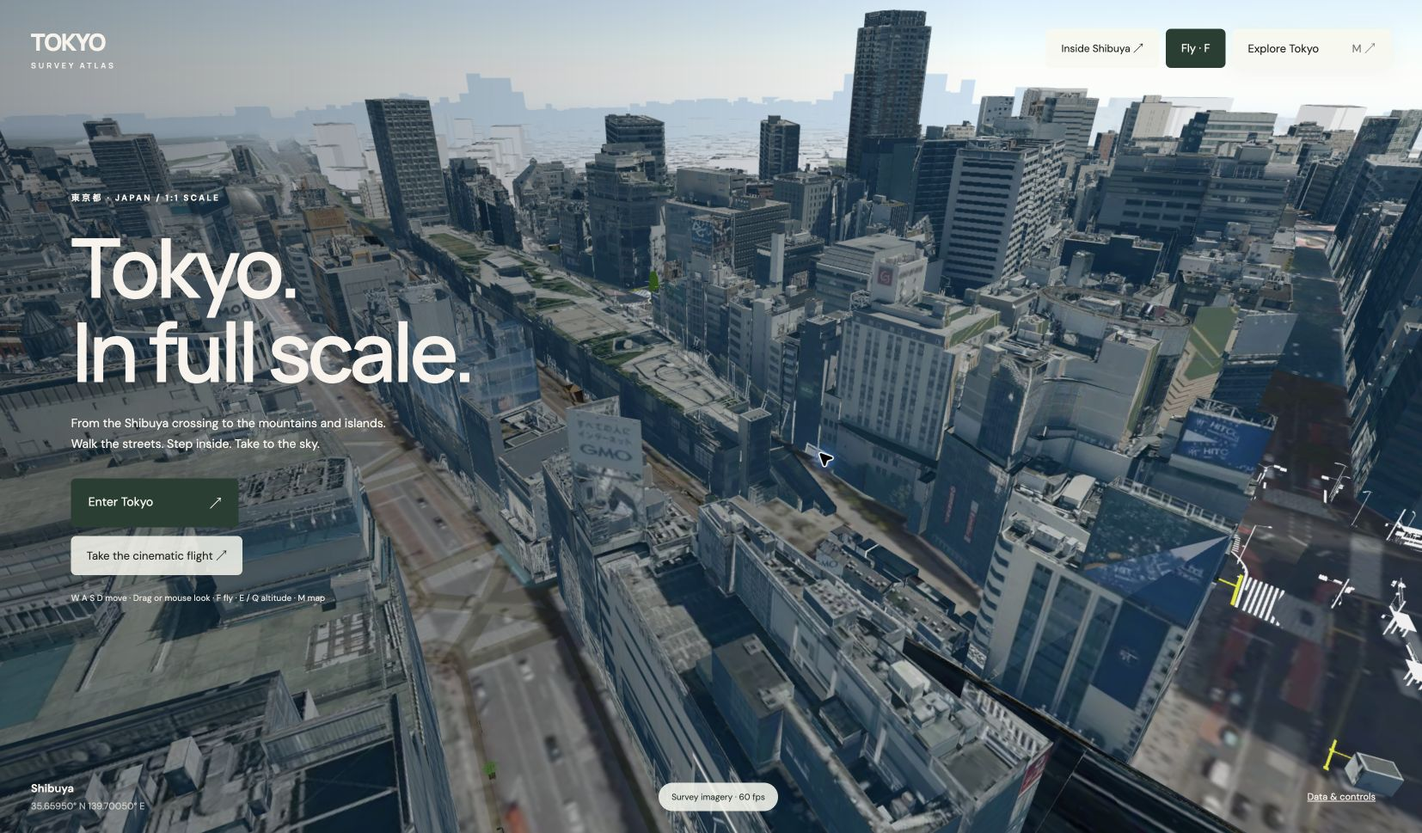
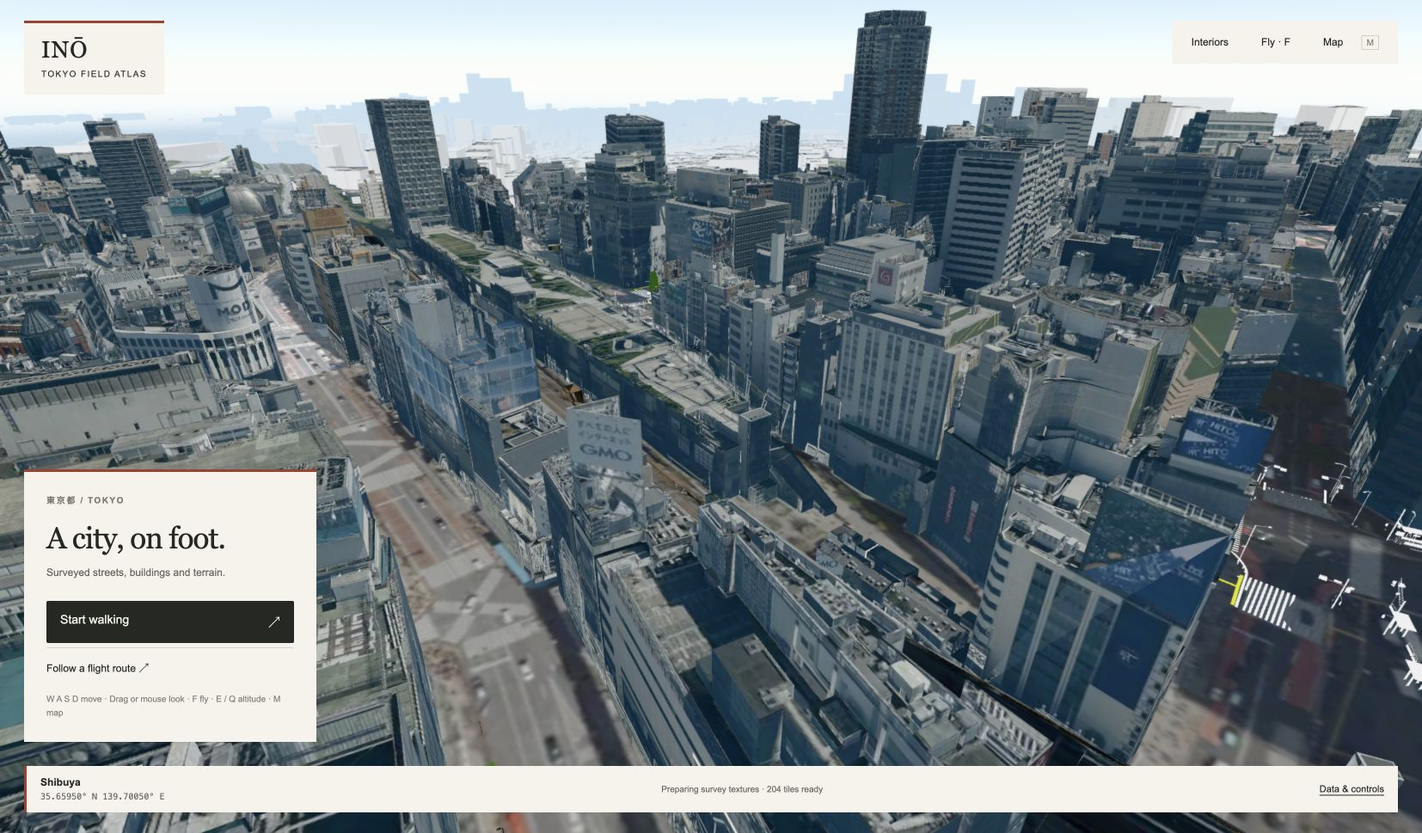
Refine Tokyo exploration with Ino survey interface

diff --git a/index.html b/index.html
@@ -1,1 +1,1 @@
-<!doctype html><html lang="en"><head><meta charset="UTF-8"><meta name="viewport" content="width=device-width,initial-scale=1"><title>Tokyo · Survey Atlas</title></head><body><canvas id="world"></canvas><header><div class="brand">TOKYO <span>SURVEY ATLAS</span></div><nav><button id="spaces-button">Inside Shibuya ↗</button><button id="fly-mode">Fly · F</button><button id="map-button">Explore Tokyo <span>M ↗</span></button></nav></header><button id="stop-flight">Exit flight · Esc</button><div id="crosshair">+</div><aside id="intro"><div class="eyebrow">東京都 · JAPAN / 1:1 SCALE</div><h1>Tokyo.<br>In full scale.</h1><p>From the Shibuya crossing to the mountains and islands.<br>Walk the streets. Step inside. Take to the sky.</p><button id="enter">Enter Tokyo <span>↗</span></button><button id="flight">Take the cinematic flight ↗</button><div class="help">W A S D move · Drag or mouse look · F fly · E / Q altitude · M map</div></aside><footer><div><strong id="place">Shibuya</strong><span id="coordinates"></span></div><div id="status">Connecting to Tokyo’s geographic data…</div><button id="about-button">Data & controls</button></footer><div id="notice" role="status"></div><button id="enter-space" hidden></button><div id="neighborhood-navigation" hidden><span id="navigation-arrow">↑</span><span id="navigation-text"></span><button id="cancel-navigation" aria-label="Cancel route">×</button></div><dialog id="spaces-dialog"><div class="dialog-head"><div><div class="eyebrow">A CLOSER LOOK</div><h2>Inside Shibuya</h2></div><button id="close-spaces" aria-label="Close Shibuya interiors">×</button></div><p class="spaces-intro">Walk to an entrance, then press E to step inside.</p><div id="spaces">Loading Shibuya entrances…</div><p class="small">The furnished café, shop and apartment have modeled layouts. Shibuya Station uses the published interior survey.</p></dialog><dialog id="map-dialog"><div class="dialog-head"><div><div class="eyebrow">GO ANYWHERE</div><h2>Tokyo Metropolis</h2></div><button id="close-map" aria-label="Close map">×</button></div><div id="map-canvas" aria-label="Interactive destination map"><div id="map-tiles"></div><div id="map-zoom"><button id="zoom-in">+</button><button id="zoom-out">−</button></div><div class="map-hint">Drag to pan · Click to travel · Scroll to zoom</div></div><div id="places"></div><form id="coordinate-form"><label>Go to coordinates</label><input id="lat" aria-label="Latitude" type="number" step="any" value="35.6595" required><input id="lon" aria-label="Longitude" type="number" step="any" value="139.7005" required><button>Go ↗</button></form><p class="small">Map © Geospatial Information Authority of Japan. Building coverage follows the published PLATEAU datasets.</p></dialog><dialog id="about-dialog"><div class="dialog-head"><h2>Real geography.<br>Surveyed surfaces.</h2><button id="close-about">×</button></div><p>One scene unit is one metre. Buildings retain the original angled surfaces and photographic mapping from Japan’s official PLATEAU survey models. Original survey photographs cover available façades and roofs. Terrain uses GSI elevation and aerial imagery, with native 20 cm Tokyo orthophotography in available Tama and Izu areas. Unphotographed surfaces keep their source colours; image resolution and survey dates vary.</p><p>All 62 Tokyo municipality datasets are connected. Nearby data streams as you walk. The local site requires internet for government source data.</p><p>Roads and bridges retain continuous survey surfaces. Smooth terrain uses approximately 2 m samples nearby, with coarser distant detail and shared edges. Survey dates and model detail vary. Roofs and footprints follow the source models; small features and dynamic street life are outside this dataset. Selected Shibuya interiors and street details are modeled in Blender. Authored interiors are identified in their room information. Physical bridge and elevated-road coverage is less complete than building coverage.</p><p>WASD / arrows: walk · Mouse or drag: look · Shift: run · Space: jump · E: enter nearby buildings · F: fly / walk · E / Q: ascend / descend in flight · M: map · Esc: release mouse</p><p><a href="https://docs.plateauview.mlit.go.jp/datasets/3d-tiles/" target="_blank" rel="noreferrer">PLATEAU data and licence ↗</a><br><a href="https://maps.gsi.go.jp/development/ichiran.html" target="_blank" rel="noreferrer">GSI terrain and photography ↗</a><br><a href="https://catalog.data.metro.tokyo.lg.jp/dataset/t000029d0000000020" target="_blank" rel="noreferrer">Tokyo Digital Twin orthophotography · CC BY 4.0 ↗</a><br>東京都デジタルツイン実現プロジェクトのオルソ画像を加工して作成</p></dialog><script type="module" src="/src/main.ts"></script></body></html>
+<!doctype html><html lang="en"><head><meta charset="UTF-8"><meta name="viewport" content="width=device-width,initial-scale=1"><title>Inō · Tokyo</title></head><body><canvas id="world"></canvas><header><div class="brand">INŌ <span>TOKYO FIELD ATLAS</span></div><nav><button id="spaces-button">Interiors</button><button id="fly-mode">Fly · F</button><button id="map-button">Map <span>M</span></button></nav></header><button id="stop-flight">Exit flight · Esc</button><div id="crosshair">+</div><aside id="intro"><div class="eyebrow">東京都 / TOKYO</div><h1>A city, on foot.</h1><p>Surveyed streets, buildings and terrain.</p><button id="enter">Start walking <span>↗</span></button><button id="flight">Follow a flight route ↗</button><div class="help">W A S D move · Drag or mouse look · F fly · E / Q altitude · M map</div></aside><footer><div><strong id="place">Shibuya</strong><span id="coordinates"></span></div><div id="status">Connecting to Tokyo’s geographic data…</div><button id="about-button">Data & controls</button></footer><div id="notice" role="status"></div><button id="enter-space" hidden></button><div id="neighborhood-navigation" hidden><span id="navigation-arrow">↑</span><span id="navigation-text"></span><button id="cancel-navigation" aria-label="Cancel route">×</button></div><dialog id="spaces-dialog"><div class="dialog-head"><div><div class="eyebrow">SHIBUYA</div><h2>Inside Shibuya</h2></div><button id="close-spaces" aria-label="Close Shibuya interiors">×</button></div><p class="spaces-intro">Walk to an entrance, then press E to step inside.</p><div id="spaces">Loading Shibuya entrances…</div><p class="small">The furnished café, shop and apartment have modeled layouts. Shibuya Station uses the published interior survey.</p></dialog><dialog id="map-dialog"><div class="dialog-head"><div><div class="eyebrow">DESTINATIONS</div><h2>Tokyo Metropolis</h2></div><button id="close-map" aria-label="Close map">×</button></div><div id="map-canvas" aria-label="Interactive destination map"><div id="map-tiles"></div><div id="map-zoom"><button id="zoom-in">+</button><button id="zoom-out">−</button></div><div class="map-hint">Drag to pan · Click to travel · Scroll to zoom</div></div><div id="places"></div><form id="coordinate-form"><label>Go to coordinates</label><input id="lat" aria-label="Latitude" type="number" step="any" value="35.6595" required><input id="lon" aria-label="Longitude" type="number" step="any" value="139.7005" required><button>Go ↗</button></form><p class="small">Map © Geospatial Information Authority of Japan. Building coverage follows the published PLATEAU datasets.</p></dialog><dialog id="about-dialog"><div class="dialog-head"><h2>Sources & controls</h2><button id="close-about">×</button></div><p>One scene unit is one metre. Buildings retain the original angled surfaces and photographic mapping from Japan’s official PLATEAU survey models. Original survey photographs cover available façades and roofs. Terrain uses GSI elevation and aerial imagery, with native 20 cm Tokyo orthophotography in available Tama and Izu areas. Unphotographed surfaces keep their source colours; image resolution and survey dates vary.</p><p>All 62 Tokyo municipality datasets are connected. Nearby data streams as you walk. The local site requires internet for government source data.</p><p>Roads and bridges retain continuous survey surfaces. Smooth terrain uses approximately 2 m samples nearby, with coarser distant detail and shared edges. Survey dates and model detail vary. Roofs and footprints follow the source models; small features and dynamic street life are outside this dataset. Selected Shibuya interiors and street details are modeled in Blender. Authored interiors are identified in their room information. Physical bridge and elevated-road coverage is less complete than building coverage.</p><p>WASD / arrows: walk · Mouse or drag: look · Shift: run · Space: jump · E: enter nearby buildings · F: fly / walk · E / Q: ascend / descend in flight · M: map · Esc: release mouse</p><p><a href="https://docs.plateauview.mlit.go.jp/datasets/3d-tiles/" target="_blank" rel="noreferrer">PLATEAU data and licence ↗</a><br><a href="https://maps.gsi.go.jp/development/ichiran.html" target="_blank" rel="noreferrer">GSI terrain and photography ↗</a><br><a href="https://catalog.data.metro.tokyo.lg.jp/dataset/t000029d0000000020" target="_blank" rel="noreferrer">Tokyo Digital Twin orthophotography · CC BY 4.0 ↗</a><br>東京都デジタルツイン実現プロジェクトのオルソ画像を加工して作成</p></dialog><script type="module" src="/src/main.ts"></script></body></html>

diff --git a/underground.html b/underground.html
@@ -1,10 +1,12 @@
 <!doctype html>
-<html lang="en"><head><meta charset="UTF-8"><meta name="viewport" content="width=device-width,initial-scale=1"><meta name="theme-color" content="#101619"><title>Shibuya Underground · Tokyo Survey Atlas</title>
+<html lang="en"><head><meta charset="UTF-8"><meta name="viewport" content="width=device-width,initial-scale=1"><meta name="theme-color" content="#101619"><title>Shibuya Underground · Inō</title>
 <style>
   :root{font-family:Inter,-apple-system,BlinkMacSystemFont,"Segoe UI",sans-serif;color:#f4f5ee;font-synthesis:none}*{box-sizing:border-box}body{margin:0;overflow:hidden;background:#111819}button,select,a{font:inherit}button,select{cursor:pointer;color:inherit;border:1px solid #ffffff29;background:#142326e8;border-radius:8px;padding:11px 15px;font-size:12px}button:hover,select:hover{background:#29403e}button:focus-visible,select:focus-visible,a:focus-visible{outline:2px solid #c4e6bd;outline-offset:4px}a{color:inherit;text-decoration:none}canvas{display:block;width:100vw;height:100vh;touch-action:none}header{position:fixed;top:25px;left:30px;right:30px;display:flex;align-items:center;justify-content:space-between;gap:20px;pointer-events:none}header>*{pointer-events:auto}.brand{font-size:17px;font-weight:650;letter-spacing:-.4px;text-shadow:0 1px 12px #000}.brand small{display:block;font-size:9px;font-weight:500;letter-spacing:2px;text-transform:uppercase;margin-top:7px;opacity:.7}nav{display:flex;align-items:center;gap:8px}.back{font-size:12px;margin-right:16px;text-shadow:0 1px 9px #000}#mode{background:#d9ebc7;color:#182723;border-color:transparent;min-width:85px}#help{position:fixed;bottom:27px;left:30px;font-size:11px;line-height:1.8;text-shadow:0 1px 8px #000}#help strong{display:block;font-size:14px;font-weight:550}#status{position:fixed;right:30px;bottom:30px;font-size:11px;background:#142326df;padding:10px 14px;border:1px solid #ffffff1a;border-radius:30px;font-variant-numeric:tabular-nums}#crosshair{position:fixed;left:50%;top:50%;width:4px;height:4px;border-radius:50%;background:#fff9;pointer-events:none}#loading{position:fixed;top:50%;left:50%;transform:translate(-50%,-50%);background:#142326ee;border:1px solid #ffffff21;border-radius:12px;padding:22px 28px;max-width:90vw;text-align:center;font-size:13px;line-height:1.7}#loading small{display:block;font-size:11px;opacity:.65;margin-top:6px}dialog{width:min(500px,90vw);border:1px solid #536763;border-radius:16px;padding:28px;background:#182725;color:#f4f5ee;box-shadow:0 30px 100px #0008}dialog::backdrop{background:#09131399;backdrop-filter:blur(5px)}dialog h2{font-size:24px;letter-spacing:-.7px;font-weight:550;margin:0 0 22px}dialog p{font-size:13px;line-height:1.75;opacity:.85}dialog a{text-decoration:underline;text-underline-offset:3px}dialog button{float:right}#source-credit{font-size:11px;opacity:.7}#error{color:#ffd3b6}select option{background:#182725;color:white}@media(max-width:680px){header{top:18px;left:18px;right:18px;align-items:start;gap:12px}.brand{font-size:14px}.brand small{letter-spacing:1px;font-size:8px}nav{flex-wrap:wrap;justify-content:flex-end;gap:6px;max-width:230px}button,select{padding:9px 10px;font-size:11px}.back{margin-right:0;width:100%;text-align:right;font-size:11px}#help{left:18px;bottom:67px;font-size:10px}#status{right:18px;bottom:20px}#help strong{font-size:12px}}
+
+:root{font-family:Arial,Helvetica,sans-serif}button,select,dialog,#loading,#status{border-radius:2px}button,select{background:#f5f3eb;color:#262824;border:0}button:hover,select:hover{background:#e6e1d2}.brand{font:500 25px Georgia,serif;letter-spacing:1px;background:#f5f3eb;color:#262824;padding:15px 18px;border-top:3px solid #a43d2d;text-shadow:none}.brand small{font:9px Arial,sans-serif;letter-spacing:1px}nav{background:#f5f3eb;padding:4px;gap:3px;color:#262824}.back{text-shadow:none;margin:0;padding:12px}#mode{background:#e8e5da;color:#262824}#help{background:#f5f3eb;color:#262824;border-left:3px solid #a43d2d;padding:10px 14px;text-shadow:none}#status{background:#f5f3eb;color:#262824;border:0}dialog{background:#f5f3eb;color:#262824;border:0;border-top:3px solid #a43d2d}dialog h2{font:29px Georgia,serif}button:focus-visible,select:focus-visible,a:focus-visible{outline-color:#a43d2d}@media(max-width:680px){.brand{font-size:19px;padding:10px}nav{max-width:230px}.back{padding:5px 10px}#help{max-width:calc(100vw - 36px)}}
 </style></head>
 <body><canvas id="scan" aria-label="Walkable measured Shibuya underground scan"></canvas>
-<header><a class="brand" href="/">TOKYO<small id="dataset-title">Shibuya Underground</small></a><nav><a class="back" href="/?lat=35.659500&lon=139.700500">↖ Back to the city</a><select id="dataset" aria-label="Measured interior"><option value="shibuya">Shibuya Underground</option><option value="takeshiba">Takeshiba interiors</option><option value="tokyo-station">Tokyo Station interiors</option></select><select id="floor" aria-label="Interior floor"><option>Loading floors…</option></select><button id="mode">Fly · F</button><button id="about">About</button></nav></header>
+<header><a class="brand" href="/">INŌ<small id="dataset-title">Shibuya Underground</small></a><nav><a class="back" href="/?lat=35.659500&lon=139.700500">↖ Street</a><select id="dataset" aria-label="Measured interior"><option value="shibuya">Shibuya Underground</option><option value="takeshiba">Takeshiba interiors</option><option value="tokyo-station">Tokyo Station interiors</option></select><select id="floor" aria-label="Interior floor"><option>Loading floors…</option></select><button id="mode">Fly · F</button><button id="about">About</button></nav></header>
 <div id="crosshair"></div><div id="loading">Opening the measured station<small>Preparing original colour and 3D surfaces</small></div>
 <div id="help"><strong id="place">Shibuya Underground</strong><span id="controls">Drag to look · WASD walk · Shift faster · F fly</span><div id="source-credit">2017 laser survey · Original captured colour</div></div><div id="status" role="status">Loading scan…</div>
 <dialog id="about-dialog"><button id="close-about" aria-label="Close information">Close</button><h2 id="about-title">Inside Shibuya</h2><p id="description">The station is reconstructed from 28.6 million measured colour laser points. Every published point and its original RGB colour are preserved. Walking support and wall contact come from the same measured geometry.</p><p id="credit">March 2017 survey by <a id="source-link" href="https://3dcel.com/study/case03/" target="_blank" rel="noreferrer">3D City Experience Lab.</a>, published under <a href="https://creativecommons.org/licenses/by/4.0/" target="_blank" rel="noreferrer">CC BY 4.0</a>.</p><p id="capture-note">The scan records the station as captured in 2017. Floor viewpoints follow measured clear areas. Uncaptured areas remain outside the survey.</p><p id="error"></p></dialog>

diff --git a/src/style.css b/src/style.css
@@ -11,3 +11,7 @@ header nav{display:flex;gap:8px}#fly-mode{font-size:13px;background:#253e33;colo
 #underground-link{color:inherit;text-decoration:none;font-size:12px;background:#ffffffdb;padding:14px 18px;border-radius:7px;white-space:nowrap}#underground-link:hover{background:#fff}
 
 [hidden]{display:none!important}#spaces-button{font-size:12px;background:#f7f8eeee}#spaces{display:grid;grid-template-columns:1fr 1fr;gap:12px;margin:24px 0}.space-card{padding:22px;background:#e4e8da;text-align:left;min-height:132px;border:1px solid #cfd8c4}.space-card strong{font:600 18px Manrope,sans-serif;display:block;margin-bottom:12px;letter-spacing:-.4px}.space-card span{display:block;font-size:11px;opacity:.65}.space-card small{display:block;margin-top:21px;font-size:11px}.spaces-intro{font-size:13px;line-height:1.6}#spaces-dialog{max-width:650px}#enter-space{position:fixed;z-index:4;left:50%;bottom:105px;transform:translateX(-50%);background:#f7f8eef2;color:#253e33;box-shadow:0 4px 26px #122d3626;min-width:220px}#neighborhood-navigation{position:fixed;z-index:3;left:50%;top:105px;transform:translateX(-50%);display:flex;align-items:center;gap:13px;background:#253e33e8;color:#faf8ef;padding:4px 9px 4px 17px;border-radius:25px;font-size:11px}#navigation-arrow{display:inline-block;font-size:23px;line-height:1}#cancel-navigation{background:transparent;color:inherit;font-size:18px;padding:5px 7px}body.cinema #enter-space,body.cinema #neighborhood-navigation{display:none!important}@media(max-width:600px){#spaces{gap:8px}.space-card{padding:17px 13px}.space-card strong{font-size:16px}#spaces-button{font-size:11px;padding:12px}#neighborhood-navigation{top:90px;white-space:nowrap}}
+
+/* Survey sheet: paper, ruled edges, geographic information before branding. */
+:root{font-family:Arial,Helvetica,sans-serif;color:#262824;--paper:#f5f3eb;--ink:#262824;--accent:#a43d2d}
+button,input,dialog{border-radius:2px}button{transition:background .15s,color .15s;min-height:42px}button:focus-visible,a:focus-visible,input:focus-visible{outline:2px solid var(--accent);outline-offset:4px}button:hover{background:#e6e1d2}header{top:24px;left:28px;right:28px;align-items:start}.brand{font:500 27px/1 Georgia,serif;letter-spacing:1px;background:var(--paper);color:var(--ink)!important;padding:17px 20px;border-top:3px solid var(--accent)}.brand span{font:10px/1.4 Arial,sans-serif;letter-spacing:1.4px;margin-top:8px}header nav{background:var(--paper);padding:4px;gap:2px}header nav button{background:transparent!important;color:var(--ink)!important;font-size:12px!important;box-shadow:none!important}header nav button:hover{background:#e6e1d2!important}#map-button span{margin-left:18px;border:1px solid #bcb8aa;padding:2px 5px;font-size:10px}#intro{top:auto;bottom:106px;left:28px;width:340px;max-width:calc(100vw - 56px);background:var(--paper);padding:26px;color:var(--ink)!important;border-top:3px solid var(--accent)}.eyebrow{font-size:10px;letter-spacing:1.5px;color:#77756c}h1{font:400 35px/1.08 Georgia,serif;letter-spacing:-1px;margin:18px 0 12px}#intro p{font-size:12px;line-height:1.5;margin:0 0 24px;color:#66665d}#enter{width:100%;background:var(--ink);padding:14px 16px;min-width:0}#enter:hover{background:#41473d}#flight{width:100%;text-align:left;margin-top:5px;padding:11px 0 0;background:transparent;border-top:1px solid #d8d4c9;font-size:12px;min-height:36px}.help{font-size:10px;line-height:1.6;margin-top:16px;color:#727169}body:not(.walking):not(.cinema)::after{display:none}footer{left:28px;right:28px;bottom:24px;color:var(--ink)!important;filter:none!important;background:var(--paper);padding:12px 16px;border-left:3px solid var(--accent);gap:16px}footer strong{font-size:12px;margin-bottom:3px}#coordinates{font:10px monospace}#status{background:transparent;padding:0;border-radius:0;font-size:10px;color:#64675e}#about-button{color:var(--ink)!important;padding:0;min-height:30px;white-space:nowrap;text-underline-offset:3px;font-size:11px}dialog{background:var(--paper);padding:25px;border-top:3px solid var(--accent);box-shadow:0 16px 70px #0004}.dialog-head h2{font:400 29px Georgia,serif;letter-spacing:-.5px}.dialog-head button{font-size:24px}dialog::backdrop{background:#17201d66;backdrop-filter:blur(3px)}#places button{background:#e8e5da;border-radius:0}#map-canvas{border-radius:0}#spaces{gap:1px;background:#cfccbf;border:1px solid #cfccbf}.space-card{border:0;border-radius:0;background:var(--paper);padding:20px}.space-card strong{font:400 21px Georgia,serif}.space-card small{margin-top:16px}#neighborhood-navigation{border-radius:2px;background:var(--ink)}#enter-space{border-radius:2px}#notice{background:var(--ink);border-radius:2px}#stop-flight{border-radius:2px}body.walking .brand{padding:12px 16px;font-size:20px}body.walking .brand span{display:none}@media(max-width:600px){header{top:14px;left:14px;right:14px;gap:8px}.brand{padding:12px;font-size:22px}.brand span{font-size:8px;letter-spacing:1px}header nav{flex-wrap:wrap;justify-content:flex-end}header nav button{padding:8px!important;min-height:34px}#intro{left:14px;bottom:112px;max-width:calc(100vw - 28px);padding:22px}footer{left:14px;right:14px;bottom:14px;gap:5px 12px;padding:10px}#status{order:3;flex-basis:100%}#about-button{margin-left:auto}#coordinate-form input{width:100px}#coordinate-form label{width:100%}#spaces{grid-template-columns:1fr}dialog{max-height:88vh}.space-card{min-height:0}.space-card small{margin-top:8px}}@media(max-height:620px){#intro{bottom:86px;padding:18px}#intro p,.help{display:none}h1{font-size:28px;margin:12px 0 18px}footer{bottom:12px}}

diff --git a/src/interior.css b/src/interior.css
@@ -1,1 +1,4 @@
 :root{font-family:Inter,-apple-system,BlinkMacSystemFont,"Segoe UI",sans-serif;color:#f5f3e9;font-synthesis:none}*{box-sizing:border-box}body{margin:0;overflow:hidden;background:#b8cbc9}canvas{display:block;width:100vw;height:100vh;touch-action:none}a{color:inherit;text-decoration:none}button{cursor:pointer;font:inherit;font-size:12px;color:inherit;background:#243b31e8;border:1px solid #ffffff26;border-radius:7px;padding:12px 16px}button:hover{background:#3e5547}button:focus-visible,a:focus-visible{outline:2px solid #e2edbc;outline-offset:4px}[hidden]{display:none!important}header{position:fixed;top:28px;left:32px;right:32px;display:flex;justify-content:space-between;align-items:center;gap:24px;pointer-events:none}header>*{pointer-events:auto}.brand{font-weight:700;letter-spacing:.2px;font-size:22px;text-shadow:0 1px 15px #12231999}.brand small{display:block;font-size:8px;letter-spacing:2.5px;margin-top:5px;font-weight:550}nav{display:flex;gap:9px;align-items:center}#back{font-size:12px;margin-right:18px;text-shadow:0 1px 6px #122319cc}#mode{color:#23382c;background:#ecf0db}#crosshair{position:fixed;left:50%;top:50%;width:3px;height:3px;background:#fff8;border-radius:50%;pointer-events:none}footer{position:fixed;bottom:27px;left:32px;right:32px;display:flex;justify-content:space-between;align-items:end;font-size:10px;line-height:1.7;text-shadow:0 1px 6px #13281ecc}footer strong{display:block;font-size:15px;font-weight:550;margin-bottom:3px}#status{font-variant-numeric:tabular-nums;border-radius:20px;background:#243b31d9;padding:9px 14px}#loading{position:fixed;top:50%;left:50%;transform:translate(-50%,-50%);padding:24px 28px;background:#243b31ef;box-shadow:0 18px 80px #122d3626;border-radius:12px;font-size:13px}#interaction{position:fixed;left:50%;bottom:100px;transform:translateX(-50%);background:#f1f0e8ed;color:#253e33;box-shadow:0 4px 25px #122d3626;min-width:190px}dialog{width:min(500px,90vw);border:0;border-radius:15px;padding:28px;background:#f2f0e8;color:#263c32}dialog::backdrop{background:#12271f88;backdrop-filter:blur(5px)}dialog h2{font-size:25px;font-weight:550;letter-spacing:-.6px;margin:0 0 22px}dialog p{font-size:13px;line-height:1.75}dialog a{text-decoration:underline}dialog button{float:right}@media(max-width:650px){header{left:18px;right:18px;top:20px;align-items:start}.brand{font-size:18px}nav{max-width:220px;flex-wrap:wrap;justify-content:flex-end}#back{width:100%;text-align:right;margin:0}footer{left:18px;right:18px;bottom:20px;gap:15px}footer span{display:block;max-width:230px}#interaction{bottom:116px}button{padding:10px 12px}}
+
+/* Match the exterior survey-sheet controls. */
+:root{font-family:Arial,Helvetica,sans-serif}button,dialog,#loading,#interaction,#status{border-radius:2px}button{background:#f5f3eb;color:#262824;border:0;min-height:42px}button:hover{background:#e6e1d2}button:focus-visible,a:focus-visible{outline-color:#a43d2d}.brand{font:500 25px Georgia,serif;letter-spacing:1px;background:#f5f3eb;color:#262824;padding:15px 18px;border-top:3px solid #a43d2d;text-shadow:none}.brand small{font:9px Arial,sans-serif;letter-spacing:1.4px}nav{background:#f5f3eb;padding:4px;gap:3px;color:#262824}#back{text-shadow:none;margin:0;padding:12px;font-size:12px}#mode{background:#e8e5da}footer{background:#f5f3eb;color:#262824;border-left:3px solid #a43d2d;padding:12px 16px;text-shadow:none}footer strong{font-size:13px}#status{background:transparent;padding:0;color:#686b62}dialog{background:#f5f3eb;border-top:3px solid #a43d2d}dialog h2{font:29px Georgia,serif}dialog button{background:#262824;color:#f5f3eb}#loading{background:#f5f3eb;color:#262824;border-top:3px solid #a43d2d}@media(max-width:650px){header{gap:10px}.brand{font-size:21px;padding:12px}nav{max-width:210px;gap:0}#back{width:auto;padding:10px}footer{gap:8px;flex-wrap:wrap}footer span{font-size:9px}}

diff --git a/interior.html b/interior.html
@@ -1,1 +1,1 @@
-<!doctype html><html lang="en"><head><meta charset="UTF-8"><meta name="viewport" content="width=device-width, initial-scale=1"><meta name="theme-color" content="#293c34"><title>Inside Shibuya · Tokyo</title></head><body><canvas id="interior" aria-label="Walkable furnished interior"></canvas><header><a class="brand" href="/">TOKYO<small>INSIDE SHIBUYA</small></a><nav><a id="back" href="/">↖ Return to the street</a><button id="mode">Fly · F</button><button id="about">About this room</button></nav></header><div id="crosshair"></div><div id="loading" role="status">Opening the furnished room</div><button id="interaction" hidden></button><footer><div><strong id="title">Inside Shibuya</strong><span>W A S D move · Drag to look · E interact · F fly</span></div><div id="status" role="status"></div></footer><dialog id="about-dialog"><button id="close-about" aria-label="Close information">Close</button><h2>Inside Shibuya</h2><p>Furniture, fittings and surfaces are modeled in Blender at real-world scale. These are authored interior layouts connected to the Tokyo exterior.</p><p>Doors, furniture and walking paths have physical depth and collision. The café, clothing shop and apartment are interpretations of their building uses. Their layouts do not represent a measured survey of an actual shop or home.</p><p>Materials include <a href="https://polyhaven.com/license" target="_blank" rel="noreferrer">Poly Haven CC0 surface scans</a>. Open the café machine, doors and light switches with E when their prompt appears.</p></dialog><script type="module" src="/src/interior-viewer.ts"></script></body></html>
+<!doctype html><html lang="en"><head><meta charset="UTF-8"><meta name="viewport" content="width=device-width, initial-scale=1"><meta name="theme-color" content="#293c34"><title>Inside Shibuya · Inō</title></head><body><canvas id="interior" aria-label="Walkable furnished interior"></canvas><header><a class="brand" href="/">INŌ<small>INSIDE SHIBUYA</small></a><nav><a id="back" href="/">↖ Street</a><button id="mode">Fly · F</button><button id="about">Room info</button></nav></header><div id="crosshair"></div><div id="loading" role="status">Opening the furnished room</div><button id="interaction" hidden></button><footer><div><strong id="title">Inside Shibuya</strong><span>W A S D move · Drag to look · E interact · F fly</span></div><div id="status" role="status"></div></footer><dialog id="about-dialog"><button id="close-about" aria-label="Close information">Close</button><h2>Inside Shibuya</h2><p>Furniture, fittings and surfaces are modeled in Blender at real-world scale. These are authored interior layouts connected to the Tokyo exterior.</p><p>Doors, furniture and walking paths have physical depth and collision. The café, clothing shop and apartment are interpretations of their building uses. Their layouts do not represent a measured survey of an actual shop or home.</p><p>Materials include <a href="https://polyhaven.com/license" target="_blank" rel="noreferrer">Poly Haven CC0 surface scans</a>. Open the café machine, doors and light switches with E when their prompt appears.</p></dialog><script type="module" src="/src/interior-viewer.ts"></script></body></html>

diff --git a/README.md b/README.md
@@ -1,8 +1,10 @@
-# Tokyo
+# Inō · Tokyo
 
 A georeferenced 3D explorer for Tokyo built with Three.js, PLATEAU city models, and GSI terrain and aerial imagery. Walk or fly through streamed survey geometry, visit selected Shibuya interiors, and inspect published underground scans.
 
 ![Tokyo Survey Atlas in Shibuya](docs/shibuya.png)
+
+The name refers to [Inō Tadataka’s field surveys](https://www.ndl.go.jp/en/jikihitsu/part1/s3_3/). The interface takes its paper palette, ruled margins and compact annotations from [historic survey sheets](https://www.loc.gov/resource/gdcwdl.wdl_11823/), while the city data remains modern.
 
 ## Run locally
 
